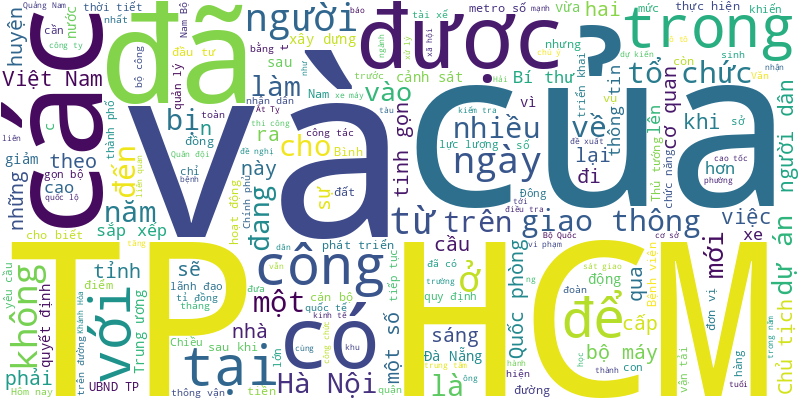
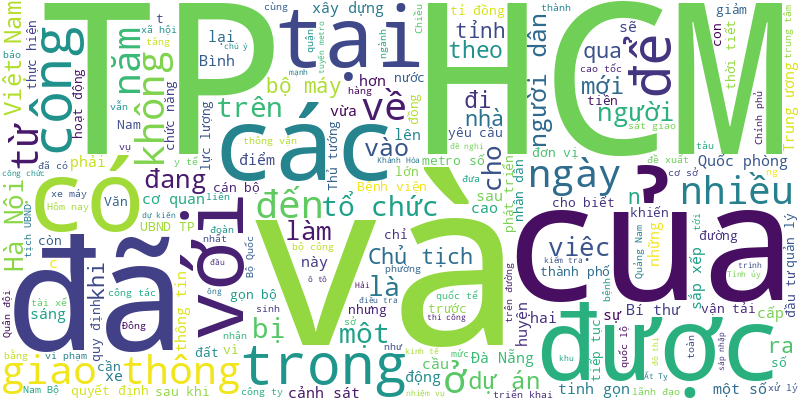
🍀 = 70%

diff --git a/README.md b/README.md
@@ -1,6 +1,11 @@
 # Tuoi Tre RSS 
 
 ## Giáo dục 
+- Tuần lễ SIU Prize 2025 diễn ra từ ngày 4 tới 11-1 là chuỗi sự kiện học thuật, gồm các hội thảo về trí tuệ nhân tạo kết hợp cùng lễ trao giải SIU Prize Computer Science mùa 1.
+- Việt Nam đặt mục tiêu đến năm 2030 có ít nhất 5 cơ sở giáo dục đại học được xếp hạng trong số 500 trường đại học tốt nhất thế giới.
+- Trường đại học RMIT Việt Nam công bố chương trình học bổng năm 2025 của trường, với tổng giá trị hơn 53,5 tỉ đồng.
+- Liên quan đến phản ánh của phụ huynh về việc trường ép học sinh mua sách Stem, Sở Giáo dục và Đào tạo tỉnh Cà Mau đã có công văn đề nghị cán bộ quản lý, giáo viên, nhân viên các cấp không được ép buộc, vận động học sinh mua sách tham khảo.
+- Trường đại học Sư phạm kỹ thuật TP.HCM công bố năm 2025 vẫn xét tuyển sớm theo phương thức ưu tiên xét tuyển thí sinh các trường THPT có ký kết hợp tác, trong khi Bộ Giáo dục và Đào tạo vẫn chưa chốt xét tuyển sớm.
 - Sau khi Đại học Quốc gia TP.HCM chính thức công bố cấu trúc bài thi đánh giá năng lực từ năm 2025, nhiều thí sinh, phụ huynh tỏ ra lo lắng và tìm nơi ôn luyện.
 - Học sinh giỏi năm lớp 11 hoặc đạt điểm học sinh giỏi học kỳ 1 năm lớp 12 được tuyển thẳng vào Trường cao đẳng Kỹ thuật Cao Thắng.
 - Nâng cao chất lượng y tế, nhân lực phải "đồng bộ". Ngành y tập trung nâng cao chất lượng nhân lực y tế trong năm 2025 thế nào?
@@ -996,13 +1001,58 @@
 - Trường đại học Khoa học xã hội và Nhân văn (Đại học Quốc gia TP.HCM) quyết định không tổ chức lễ khai giảng năm học mới để lấy kinh phí ủng hộ đồng bào vùng lũ.
 - Nhiều sinh viên đang chật vật với chứng chỉ tiếng Anh để đủ điều kiện ra trường theo quy định của trường.
 - Trường THPT Trường Chinh (quận 12, TP.HCM) không cho học sinh sử dụng điện thoại thông minh trong khuôn viên trường.
-- Đây là một trong những lời chúc được học sinh Trường tiểu học Hà Nội viết và dán lên những lọ muối vừng do chính tay các em làm để gửi tới vùng lũ.
-- Mạng xã hội xuất hiện thông tin hướng dẫn mua bộ đề ôn thi viên chức ngành giáo dục năm 2024 tại Quảng Ngãi với giá từ 300.000-400.000 đồng, đây là hình thức lừa đảo, mọi người cần cảnh giác.
-- Cô Nự và các giáo viên mầm non thôn Làng Nủ không thể ngờ chỉ vài ngày sau khai giảng, những đồ vật được các con yêu thích đã trở thành những kỷ vật cuối cùng.
-- Trong danh sách ứng viên được hội đồng giáo sư cơ sở đề nghị xét công nhận đạt tiêu chuẩn chức danh giáo sư, phó giáo sư năm 2024, có nhiều lãnh đạo các trường đại học.
-- Gần 22 năm nay, lớp học tình thương chùa Long Cát tại huyện Thuận Bắc (Ninh Thuận) luôn ê a tiếng đánh vần vào các buổi chiều tối. Nhờ đó, nhiều em học sinh là người đồng bào Raglai đã biết đọc, biết viết.
 ![Edu](Edu.png)
 ## Thời Sự 
+- Tối 2-1, Công an TP.HCM đang làm rõ nội dung đoạn video clip ghi lại hình ảnh người đàn ông cầm dao, đuổi đánh người.
+- Hôm nay 3-1, rãnh áp thấp nối với vùng áp thấp vẫn duy trì nên thời tiết Nam Bộ nhiều mây, vài nơi mưa, vùng biển phía Nam dông gió, biển động.
+- Nghiên cứu chính sách hỗ trợ người dân, doanh nghiệp chuyển đổi phương tiện giao thông sử dụng xăng, dầu sang phương tiện giao thông xanh.
+- Trụ sở quận Phú Xuân của TP Huế hiện nay đang đặt tại một trong những khu vực di tích lịch sử rất đặc biệt - hệ thống quân sự ở đồn Mang Cá.
+- Vườn hoa xây vi phạm trên núi Điện Tiên (TP Phú Quốc, Kiên Giang) trước khi mở cửa đón khách gây xôn xao dư luận qua nay đã bị địa phương lập biên bản vi phạm hành chính, và đề xuất chủ tịch UBND tỉnh xử phạt hơn 1 tỉ đồng. Chủ vườn hoa trên nói gì?
+- Xe khách biển số tỉnh Kiên Giang khi chạy trên quốc lộ 1, đoạn qua thị xã Ninh Hòa (tỉnh Khánh Hòa) thì bất ngờ mất lái, tự gây tai nạn.
+- Hiện nay, lưu lượng xe ô tô qua cầu Rạch Miễu trung bình 20.000 lượt/ngày đêm. Lo ngại khi cầu Rạch Miễu 2 hoàn thành, lượng xe sẽ tăng đột biến khiến quốc lộ 60 bị quá tải, tỉnh Bến Tre đã kiến nghị chi 1.600 tỉ đồng để nâng cấp.
+- Quy hoạch chung xác định TP.HCM là đô thị đặc biệt, gồm đô thị trung tâm, 6 đô thị trực thuộc là thành phố Thủ Đức và 5 đô thị vệ tinh nâng cấp lên thành phố.
+- Tỉnh Lâm Đồng đã hoàn thành các thủ tục để trình Thủ tướng chỉ định thầu 2 tuyến đường cao tốc nối TP.HCM và Đà Lạt là Tân Phú - Bảo Lộc và Bảo Lộc - Liên Khương.
+- Thi thể của 2 nạn nhân cuối cùng trong vụ tai nạn sập giàn giáo tại đập thủy điện Đăk Mi 1 đã được lực lượng chức năng tìm thấy.
+- Hai người đàn ông bị hai người khác dùng chân, tay, cây gỗ... đánh dã man ngay trên đường Nguyễn Thị Trọn, xã Vĩnh Lộc A, huyện Bình Chánh, TP.HCM.
+- Tỉnh ủy An Giang vừa ban hành nghị quyết ưu tiên xây dựng thị xã Tân Châu trở thành thành phố trực thuộc tỉnh trước năm 2030.
+- Sau khi sáp nhập thị xã Cửa Lò và 4 xã của huyện Nghi Lộc (tỉnh Nghệ An), thành phố Vinh có 5 phó chủ tịch UBND thành phố.
+- Kể từ 0h sáng 5-1, cao tốc Diễn Châu - Bãi Vọt sau hơn nửa năm thông xe sẽ đưa vào vận hành khai thác, thu phí.
+- Tỉnh Quảng Nam yêu cầu đẩy nhanh tiến độ thực hiện 3 dự án khu đô thị do Công ty Bách Đạt An làm chủ đầu tư.
+- Sáng sớm 2-1, các phường mới sau sáp nhập tại TP.HCM rộn ràng công tác tiếp đón nhân dân, khởi đầu một năm mới hoạt động 'tinh gọn, hiệu lực, hiệu quả' hơn.
+- Trong ngày đầu tiên tuyến metro số 1 (Bến Thành - Suối Tiên) áp dụng bằng thẻ từ và mã QR, đông đảo người dân đã đến để trải nghiệm sự tiện lợi của phương thức này.
+- Bị cảnh sát giao thông 'tuýt còi', nhiều người vi phạm nêu đủ mọi lý do để giải thích. Có người nói chưa nghe mức phạt mới tăng cao.
+- Làm việc online theo hướng dẫn, cô gái nhận được 148.000 đồng hoa hồng, nhưng trong 12 lần chuyển tiền sau đó bị chiếm đoạt hơn 836 triệu đồng.
+- Sau khi áp dụng nghị định 168/2024 tăng mức phạt giao thông, hy vọng người dân sẽ chạy xe cẩn thận hơn trước.
+- Cơ quan Trung ương Hội Nông dân Việt Nam sau sắp xếp, tinh gọn bộ máy giảm 7 đầu mối cấp vụ (từ 15 đầu mối xuống còn 8 đầu mối, tương đương 46,67%).
+- Bác sĩ Bệnh viện Chợ Rẫy chẩn đoán nạn nhân bị đánh ngất xỉu sau va quẹt ở Bình Dương hôn mê sâu, tiên lượng tử vong.
+- Sau hơn 12 giờ lai kéo, tàu 991, Hải đội 418, Lữ đoàn tàu ngầm 189 đã cứu hộ thành công tàu Petrolimex 11 nặng 40.000 tấn gặp nạn.
+- Ông Nguyễn Việt Oanh - phó bí thư Tỉnh ủy - được bầu giữ chức chủ tịch UBND tỉnh Bắc Giang và bà Nguyễn Thị Hương - phó bí thư thường trực Tỉnh ủy - được bầu giữ chức chủ tịch HĐND tỉnh, nhiệm kỳ 2021-2026.
+- Sáng 2-1, Bộ Quốc phòng đã tổ chức trao quyết định của Chủ tịch nước cho 8 sĩ quan quân đội lên đường đi làm nhiệm vụ gìn giữ hòa bình Liên hợp quốc tại các phái bộ thuộc Nam Sudan và Cộng hòa Trung Phi.
+- Ban chỉ đạo xây dựng và phát triển Trung tâm tài chính TP.HCM được thành lập do Bí thư Thành ủy TP.HCM Nguyễn Văn Nên làm trưởng ban, với 29 thành viên.
+- Xe bán tải đang chạy trên cao tốc TP.HCM - Long Thành - Dầu Giây, đoạn qua TP Thủ Đức (TP.HCM) bất ngờ bốc cháy dữ dội. May mắn là tài xế kịp đánh xe vào làn khẩn cấp.
+- Sáng 2-1, Thủ tướng Phạm Minh Chính đã chủ trì phiên họp thứ 7 về 'Tổng kết việc thực hiện nghị quyết số 18-NQ/TW Trung ương khóa XII về tiếp tục đổi mới, sắp xếp tổ chức bộ máy của hệ thống chính trị tinh gọn, hoạt động hiệu lực, hiệu quả'.
+- Trước tình trạng một số bệnh viện xuống cấp trầm trọng, Sở Y tế TP.HCM đề xuất ưu tiên nâng cấp, cải tạo, xây mới ba bệnh viện để nâng cao chất lượng khám, chữa bệnh.
+- Lần đầu tiên Bộ Tài nguyên và Môi trường công bố kịch bản nguồn nước ở một số lưu vực sông lớn. Vì sao?
+- Những trường hợp vi phạm đều được cảnh sát giao thông TP.HCM xử lý nghiêm và không có ngoại lệ với bất kỳ trường hợp nào.
+- Nhiều shipper để hàng hóa trên xe che khuất biển số bị cảnh sát giao thông TP.HCM lập biên bản, hành vi này mới được áp dụng trong nghị định 168/2024.
+- Công an đang điều tra nghi án xe tải chở củi gây tai nạn chết người ở Bình Phước đã rời khỏi hiện trường, vượt gần 150km đến Đồng Nai giao hàng.
+- Năm 2024, thu ngân sách quận Bình Tân (TP.HCM) đạt hơn 5.000 tỉ đồng (đạt 135,5% chỉ tiêu) và giải ngân đầu tư công đạt hơn 3.200 tỉ (đạt 100,45% kế hoạch).
+- UBND TP.HCM vừa có chỉ thị về tăng cường kỷ cương hành chính, quyết tâm hoàn thành nhiệm vụ phát triển kinh tế - xã hội năm 2025 với mục tiêu tăng trưởng trên hai con số.
+- Có 62 bệnh, nhóm bệnh được đến thẳng tuyến cuối, không cần giấy chuyển viện và người bệnh vẫn được hưởng 100% bảo hiểm y tế.
+- Chánh thanh tra Công an tỉnh Quảng Nam được Bộ Công an bổ nhiệm giữ chức phó giám đốc Công an tỉnh này.
+- Chính quyền TP Đà Nẵng vừa ban hành kế hoạch hợp nhất 10 sở, chuyển 2 đơn vị về Sở Công Thương và giải thể Nhà xuất bản Đà Nẵng.
+- Người dân 41 phường mới tại TP.HCM (sau khi sắp xếp từ 80 phường) sẽ được tạo điều kiện điều chỉnh giấy tờ mà không mất các loại thuế, phí.
+- Giấy chuyển tuyến một năm/lần có giá trị hết năm dương lịch nhưng hiện loại giấy này sẽ có giá trị một năm kể từ ngày ký. Bên cạnh đó, danh mục bệnh được cấp giấy chuyển viện năm cũng được nâng lên 141 bệnh, trước đó là 62 bệnh.
+- Mâu thuẫn trên mạng xã hội, nhóm 30 thanh thiếu niên ở các nơi cầm theo dao phóng lợn, bom xăng chạy xe máy tới Hội An tìm đối thủ. Công an đã truy xét, khởi tố 8 người.
+- Lê Văn Hiền, 36 tuổi, đánh người sau va quẹt giao thông khiến nạn nhân nguy kịch, đã bị Công an Bình Dương xác định danh tính, bắt khẩn cấp.
+- Sáng 2-1, Tòa án nhân dân TP.HCM mở phiên tòa xét xử vụ án lừa đảo chiếm đoạt tài sản liên quan đến bà Phạm Thị Tuyết Nhung (giám đốc Công ty Angel Lina) và đồng phạm.
+- Sau 20 năm phát triển, TP Tuy Hòa (tỉnh Phú Yên) hướng tới xây dựng đô thị thông minh, có bản sắc và là địa phương có chỉ số hạnh phúc cao trong khu vực.
+- Từ ngày 1-1-2025, nhiều lỗi giao thông sẽ bị tịch thu xe. Đó là những lỗi nào?
+- Bộ Y tế đã ra hướng dẫn về quy định người dân khám, chữa bệnh không đúng nơi đăng ký ban đầu do thay đổi nơi tạm trú, lưu trú, theo Luật Bảo hiểm y tế.
+- Bị can là Nguyễn Trần Khánh Huy, 25 tuổi, ngụ xã Giai Xuân, huyện Phong Điền, TP Cần Thơ, bị bắt khi đang lẩn trốn tại tỉnh Quảng Trị.
+- Tại dự thảo nghị định, Bộ Quốc phòng đã đề xuất các tiêu chí, tiêu chuẩn xét thăng quân hàm cấp tướng vượt bậc, trước thời hạn sĩ quan quân đội.
+- Điểm của giấy phép lái xe được dùng để quản lý việc chấp hành pháp luật về trật tự, an toàn giao thông đường bộ của người lái xe.
+- Lợi dụng được cấp phép kinh doanh trò chơi điện tử có thưởng cho người nước ngoài, câu lạc bộ Diamond (khách sạn Ramana ở quận 3, TP.HCM) tổ chức cho người Việt đánh bạc trái phép.
 - Sáng 2-1, đường phố Hà Nội đông đúc, có lúc ùn tắc nhưng đại đa số người dân đều chấp hành nghiêm túc hiệu lệnh của đèn tín hiệu. Một số người vượt đèn đỏ bị cảnh sát xử phạt.
 - Cục Cảnh sát giao thông cho biết qua phản ánh của người dân, tại một số đường có hiện tượng đèn tín hiệu "đang xanh bất ngờ đỏ".
 - Dự án xây dựng Trung tâm hành chính TP Nha Trang hiện đứng hình vì chưa có quy hoạch phân khu. Sáu cơ quan đang hoạt động ở nhà thuê.
@@ -1801,7 +1851,6 @@
 - Giám đốc Sở Tài nguyên và Môi trường TP.HCM cho rằng việc sắp xếp bộ máy và giảm đầu mối giúp tối ưu hóa hiệu quả công việc.
 - Không chỉ dừng lại ở khuyến khích sinh đủ hai con, mà còn phải hỗ trợ nhiều hơn cho các gia đình sinh thêm con thứ ba.
 - Xe máy trên 5 tuổi phải kiểm định khí thải định kỳ. Cơ quan chức năng đã tính toán giải pháp gì để tránh nguy cơ ùn tắc tại cơ sở kiểm định.
-- Nhiều phụ huynh rất lo lắng khi thấy con mình hút thuốc, dù đã nhắc nhở, thậm chí dùng biện pháp mạnh nhưng vẫn vô tác dụng.
 - Công an đã mời người hành hung tài xế xe tải khi dừng đèn đỏ trên đường ĐT 741 (Bình Phước) lên làm việc.
 - Đại tướng Phan Văn Giang, bộ trưởng Bộ Quốc phòng, hội đàm với Trung tướng Khrenin Viktor Gennadievich, bộ trưởng quốc phòng Belarus.
 - Cơ quan chức năng vừa bắt khẩn cấp tài xế ô tô đánh người trước cổng Bệnh viện Từ Dũ, TP.HCM. Xử phạt hành vi này ra sao mới đủ răn đe?
@@ -1843,6 +1892,7 @@
 - Trong mấy ngày qua, liên tiếp nhiều vụ ẩu đả, đánh người trên đường diễn ra tại nhiều nơi khiến dư luận bức xúc.
 - Sáng 16-12, một người Trung Quốc đã bị trục xuất về nước theo quy định.
 - Nam thanh niên vừa chạy xe máy vừa nằm trên yên xe 'biểu diễn' bị cảnh sát giao thông - trật tự Công an quận 1 lập biên bản xử lý.
+- Nhiều phụ huynh rất lo lắng khi thấy con mình hút thuốc, dù đã nhắc nhở, thậm chí dùng biện pháp mạnh nhưng vẫn vô tác dụng.
 - Trong lúc bơi ghe thả lưới bắt cá trên sông thì bị lật ghe, hai mẹ con ở TP Tam Kỳ, Quảng Nam bị chết đuối.
 - Tài xế hành hung người đi xe máy trước cổng Bệnh viện Từ Dũ (quận 1, TP.HCM) đã được lực lượng chức năng mời lên làm việc, xử lý.
 - Tại TP.HCM ngày có thêm nhiều người tự nguyện giao động vật hoang dã cho cơ quan kiểm lâm, mong muốn chúng được thả về môi trường tự nhiên.
@@ -1953,56 +2003,6 @@
 - Huyện miền núi Nam Trà My đề xuất tỉnh xem xét cho phép các đơn vị thực hiện nghiên cứu, khảo sát và hoàn chỉnh hồ sơ bổ sung vào quy hoạch điện với 15 dự án thủy điện.
 - Nông dân ở Ninh Thuận phải trèo rào hoặc đi đường vòng gần 10km ra ruộng vì cao tốc Cam Lâm - Vĩnh Hảo không có đường gom.
 - Lốc xoáy làm 64 căn nhà ở thị xã Ngã Năm, Sóc Trăng bị tốc mái, 1 người bị thương, nhiều cây xanh, trụ điện bị ngã đổ.
-- Cả ngàn cư dân của hơn 230 hộ ở thôn Võ Cang (xã Vĩnh Trung, TP Nha Trang, Khánh Hòa) bị 'giam' đất, bởi thông báo thu hồi đất cho dự án treo khu dân cư Hưng Thịnh từ năm 2011 đến nay.
-- Vụ cháy ảnh hưởng đến 10 khu nhà xưởng, hộ dân kinh doanh đồ gỗ với tổng diện tích khoảng 480m² tại xã Hữu Bằng, huyện Thạch Thất, Hà Nội khuya 12-12.
-- Do tranh chấp hợp đồng giữa bên thuê và cho thuê đất, 2 doanh nghiệp nhất quyết không di dời showroom ô tô, bàn giao mặt bằng để triển khai dự án nghìn tỉ đồng tại TP Quy Nhơn, Bình Định.
-- Từ ngày 1-1-2025, người lái ô tô điện được đào tạo và cấp bằng lái xe hạng B số tự động, trong bằng lái ghi rõ 'chỉ được điều khiển xe ô tô chuyển số tự động bao gồm cả xe ô tô điện'.
-- Lực lượng chức năng Vùng Cảnh sát biển 3 liên tiếp bắt hai vụ tàu cá chở dầu không rõ nguồn gốc.
-- Ngày 13-12, Khu Quản lý đường bộ III, Cục Đường bộ Việt Nam đã có văn bản chính thức về phân luồng đảm bảo giao thông để thi công sửa chữa cầu Câu Lâu mới ở quốc lộ 1, Quảng Nam.
-- 66 bác sĩ, cán bộ y tế được tỉnh Quảng Trị cử đi đào tạo sau đại học theo nghị quyết của HĐND tỉnh. Nhưng đến nay, khi đã hoàn thành khóa học nhiều năm, họ vẫn chưa nhận được tiền hỗ trợ theo chính sách của tỉnh.
-- Bí thư Thành ủy Hà Nội Bùi Thị Minh Hoài ký ban hành thông báo kết luận của Thường trực Ban Chỉ đạo TP về định hướng sắp xếp, tinh gọn tổ chức bộ máy.
-- Liên quan đến vụ người phụ nữ tại Quảng Bình bị phạt vì xúc phạm chồng, UBND TP Đồng Hới đã ký thêm quyết định xử phạt người chồng.
-- Ngày 13-12, Công an TP Thủ Đức đang truy xét bốn người đi xe máy ép xe, đánh tới tấp một thanh niên trên đường 904, phường Hiệp Phú.
-- Lịch nghỉ Tết của học sinh nên chốt thành ngày nghỉ cố định hằng năm?
-- Sau sự cố tấm sắt trên cầu Tăng Long ở Thủ Đức (TP.HCM) 'bốc hơi' tạo lỗ hổng lớn giữa cầu, cơ quan chức năng đã thay mới tấm sắt khác.
-- Người dân có thể dùng căn cước công dân, thẻ Mastercard để đi tàu metro số 1 (Bến Thành - Suối Tiên).
-- Sáng 13-12, lãnh đạo tỉnh Đồng Nai tổ chức gặp gỡ, đối thoại với khoảng 1.700 hộ dân ở phường Hiệp Hòa, TP Biên Hòa về việc thu hồi đất làm dự án khu đô thị Hiệp Hòa.
-- Bộ Chính trị đã quyết định thi hành kỷ luật cảnh cáo ông Nguyễn Xuân Phúc, Trương Hòa Bình và kỷ luật khiển trách bà Trương Thị Mai.
-- Sóc Trăng có khoảng 30 dự án cây xanh bị đề nghị cung cấp bổ sung hồ sơ, tài liệu liên quan, trong đó nhiều dự án chưa có hồ sơ hoặc thiếu hồ sơ dự toán, hồ sơ báo cáo kinh tế kỹ thuật…
-- Bí thư Tỉnh ủy, Chủ tịch UBND tỉnh Nghệ An Nguyễn Đức Trung khẳng định sắp xếp tổ chức, bộ máy không đơn thuần là sáp nhập, hợp nhất một cách cơ học mà phải đi kèm việc tinh giản, giảm đầu mối.
-- "Khai thác các giá trị đặc biệt của khu vực hồ Tây, khu phố cổ, phố cũ, sông Hồng để phát triển các hoạt động du lịch văn hóa, lễ hội, âm nhạc, ẩm thực, vui chơi giải trí gắn với phát triển kinh tế đêm" - Quy hoạch thủ đô thời kỳ 2021-2030 nêu rõ.
-- Nghị trường HĐND tỉnh Khánh Hòa sáng 13-12 "nóng" lên với các chất vấn liên quan đến chuyện lãng phí tài sản công.
-- Bộ Nội vụ đề xuất người có tài năng là đối tượng được thu hút sẽ hưởng một khoản tiền khuyến khích người có tài năng tối thiểu bằng 100% mức lương hằng tháng sau khi tuyển dụng.
-- Tòa án nhân dân tỉnh Đắk Lắk xác nhận chánh tòa hình sự của tòa bị bắt để điều tra tội 'nhận hối lộ', trong khi 1 thẩm phán cũng của tòa này bị bắt về tội 'đưa hối lộ'.
-- Nhiều sản phẩm của một số nhà máy thuộc Tổng cục Công nghiệp Quốc phòng, Quân chủng Phòng không - Không quân, Quân chủng Hải quân, Binh chủng Hóa học đang được trưng bày tại Triển lãm Quân đội anh hùng - Quốc phòng vững mạnh.
-- Cảnh sát giao thông - trật tự Công an TP Thủ Đức, TP.HCM đã lập biên bản tài xế xe ben vi phạm do 'lười chạy qua đường'.
-- Từ ngày 1-1-2025, công dân khi làm thủ tục xuất nhập cảnh tại các cửa khẩu sẽ được thu thập ảnh chân dung, vân tay theo quy định.
-- Giám đốc Công an Đà Nẵng nói 'siêu trộm nhí' chưa tới 14 tuổi đã gây ra 32 vụ việc là điển hình của tình trạng thanh thiếu niên vi phạm pháp luật.
-- Mây dông đang phát triển mạnh ở vùng biển sát TP.HCM có xu hướng di chuyển vào đất liền, mưa ở Cần Giờ rồi mở rộng ra nhiều nơi.
-- Ủy ban Kiểm tra Tỉnh ủy Quảng Ngãi cho rằng vi phạm khuyết điểm của ông Nguyễn Văn Thành - giám đốc Sở Khoa học và Công nghệ - đến mức phải xem xét, xử lý kỷ luật.
-- Số điểm bắn pháo hoa giảm 1 điểm so với Tết Nguyên đán Giáp Thìn năm 2024, kinh phí bắn pháo hoa được xã hội hóa.
-- Sáng sớm, người dân phát hiện chiếc xe hơi 5 chỗ đã lật ngửa, chìm dưới kênh nước.
-- Thời gian gần đây công an ở Hà Tĩnh đã kịp thời ngăn chặn các nhóm thanh thiếu niên sử dụng hung khí để giải quyết mâu thuẫn, triệu tập hàng chục thanh thiếu niên để xử lý vi phạm. Dư luận đặt câu hỏi vì sao tình trạng này lại "nóng".
-- Ngày 13-12, Công an tỉnh Đồng Nai tổ chức ra quân cao điểm tấn công, trấn áp tội phạm, bảo đảm an ninh trật tự dịp Tết Nguyên đán Ất Tỵ năm 2025.
-- Do có dự báo mưa lớn trong lưu vực, ngày 13-12 nhà máy thủy điện Sông Hinh (Phú Yên) bắt đầu vận hành việc xả nước về hạ du.
-- Điểm mù của ô tô là một trong những yếu tố gây mất an toàn, tiềm ẩn nhiều nguy cơ có thể dẫn đến tai nạn.
-- Công ty CP địa ốc Vũ Châu Long sẽ tiếp tục triển khai dự án Đà Nẵng Center đã bị treo hàng chục năm trời giữa trung tâm Đà Nẵng.
-- Theo đề xuất sắp xếp, hợp nhất số đầu mối trong cơ cấu tổ chức của Bộ Công Thương, từ 28 đơn vị sẽ giảm xuống còn 23 đơn vị.
-- Ngoài việc thực hiện các quy định cụ thể theo Luật Trật tự, an toàn giao thông đường bộ, xe chở học sinh phải sơn màu vàng đậm, có biển báo dấu hiệu nhận biết.
-- Vì xúc phạm danh dự, nhân phẩm của chồng, bà T.T.M.H. tại TP Đồng Hới, Quảng Bình bị xử phạt hành chính mức 7,5 triệu đồng.
-- Việt Nam thuộc nhóm các nước có mức thuế và giá thuốc lá thấp nhất thế giới, thấp hơn mặt bằng chung của các nước trong khu vực.
-- Theo dự báo của Đài Khí tượng thủy văn tỉnh Tiền Giang, Trà Vinh, triều cường rằm tháng 11 âm lịch sẽ là đợt triều cường cao trong năm 2024, gây ngập tại các vùng trũng, ven sông.
-- Hai bé 3 tuổi chơi ven kênh, không người trông coi thì bất ngờ cả hai em trượt chân rơi xuống kênh 500. Lát sau khi được phát hiện chỉ cứu được một bé, bé còn lại đuối nước thương tâm.
-- Dự báo đêm nay (13-12), gió mùa đông bắc tăng cường nên thời tiết miền Bắc, trong đó có thủ đô Hà Nội trời rét đậm, vùng núi rét hại.
-- Các bị cáo nguyên là lãnh đạo Chi nhánh Văn phòng đăng ký đất đai; Phòng Tài nguyên và Môi trường; UBND phường 5, quận Tân Bình lãnh 3 - 6 năm tù vì cấp giấy đất công cho cá nhân.
-- Đến nay VNeID đã tích hợp nhiều tiện ích trên các lĩnh vực và được kỳ vọng sẽ trở thành siêu ứng dụng chuyển đổi số quốc gia.
-- Xuất khẩu qua đường sắt liên vận giúp tiết kiệm chi phí, giảm thời gian và đảm bảo hiệu quả đơn hàng trong bối cảnh nhiều biến động, rủi ro.
-- UBND TP.HCM vừa có quyết định ban hành danh mục thủ tục hành chính thí điểm tra cứu thông tin cơ sở dữ liệu, khi thực hiện thủ tục hành chính trên Hệ thống thông tin giải quyết thủ tục hành chính của TP.
-- Một số tin tức đáng chú ý: Từ 1-1-2025 xe đưa đón học sinh phải sơn màu vàng đậm; ADB nâng dự báo tăng trưởng kinh tế Việt Nam; Xuất hiện đợt triều cường mới ở Đông Nam Bộ...
-- Năm 1999, ông Nguyễn Hồng Phước (69 tuổi, quê Kiên Giang) bị khởi tố, đến năm 2001 được đình chỉ bị can. Đáng nói bản thân ông không hề hay biết gì về sự tồn tại của quyết định đình chỉ này.
-- Từ ngày 6-12, Tổ chức Y tế thế giới (WHO) bắt đầu điều tra về dịch bệnh bí ẩn giống cúm, khiến hàng chục người chết ở Congo. Nhiều quốc gia trên thế giới thắt chặt biện pháp kiểm tra chuyến bay từ châu Phi.
-- Hôm nay 13-12, miền Trung và miền Nam vẫn duy trì thời tiết xấu khi có mưa rào đến mưa to. Bắc Bộ rét.
-- Thủ tướng Phạm Minh Chính đã bày tỏ như vậy tại buổi thăm các cán bộ, học viên Học viện Quốc phòng, Bộ Quốc phòng nhân dịp kỷ niệm 80 năm Ngày thành lập Quân đội nhân dân Việt Nam, chiều 12-12.
 ![New](News.png)
 ## Nhịp sống số 
 - Điện thoại realme C75 đang được mở bán đặc quyền tại Thế Giới Di Động chính là một "chiến binh" sẵn sàng đồng hành cùng bạn trong mọi hoàn cảnh.
